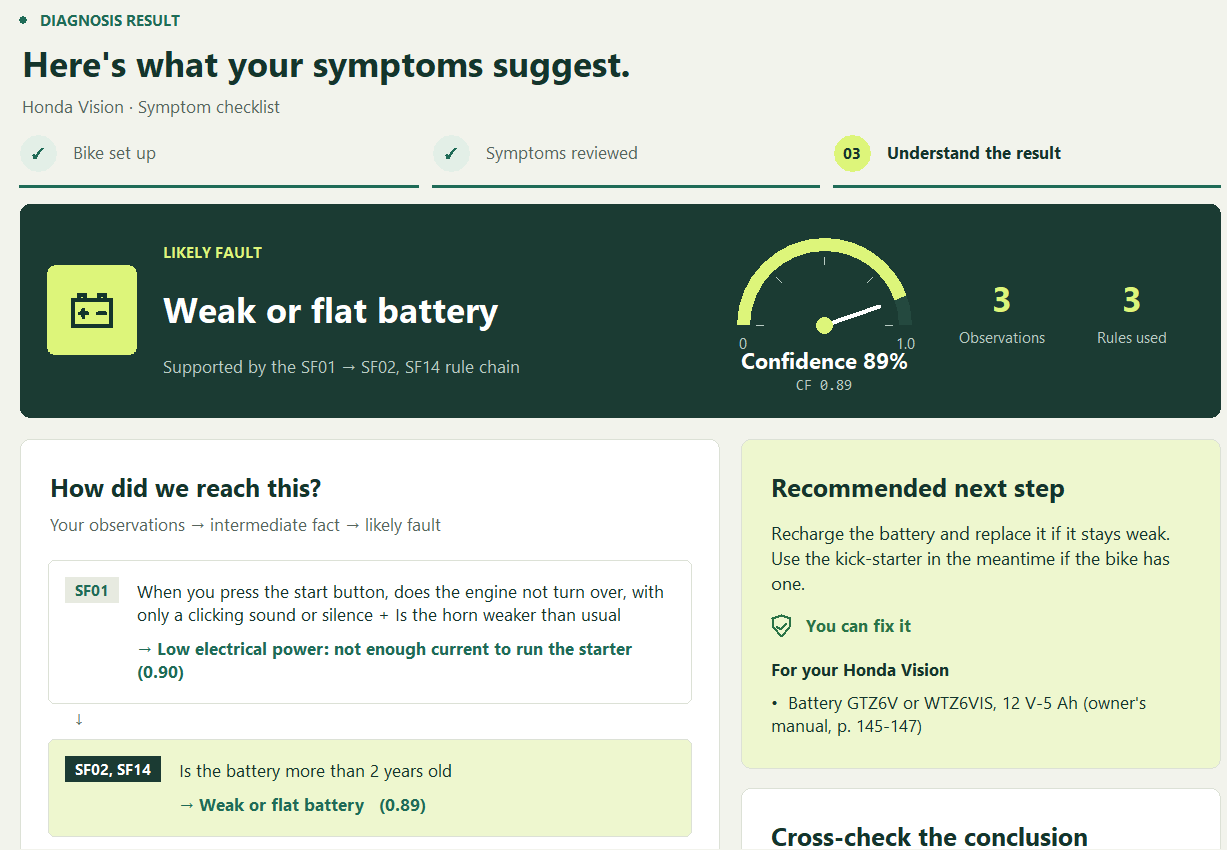
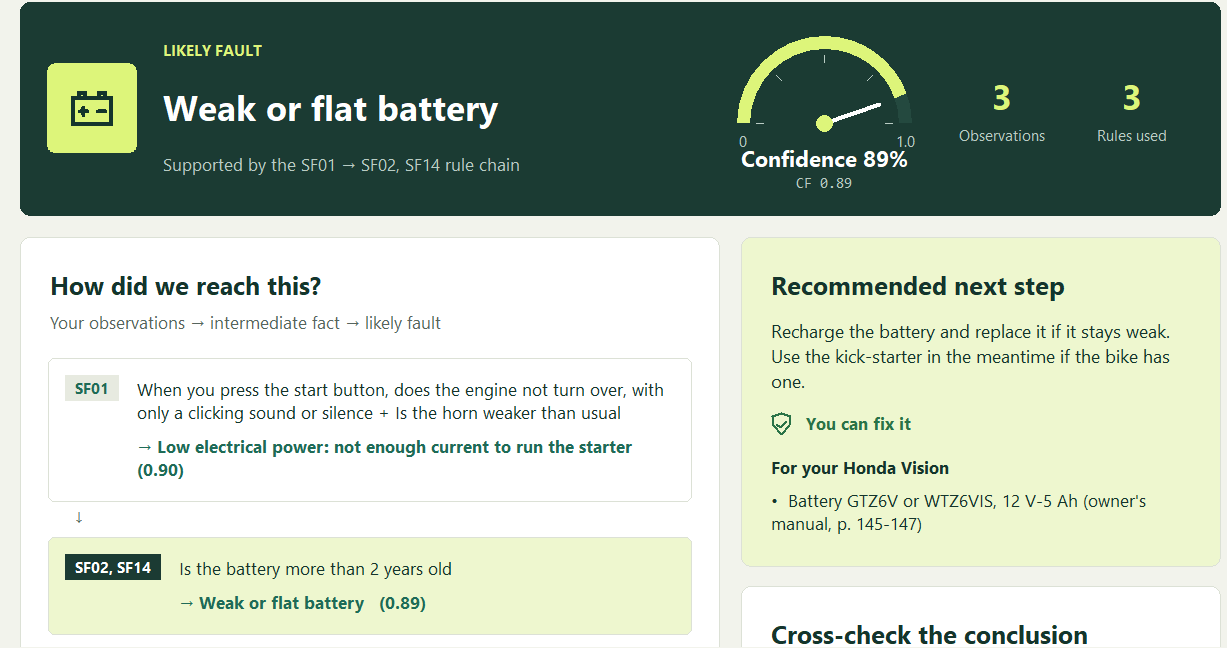
Report: the three MotoLogic screenshots back in 3.1 at full width (no appendix), other figures 5 in; body about 13 pages by the team leader's choice

diff --git a/tests/test_build_report.py b/tests/test_build_report.py
@@ -34,8 +34,8 @@ class BuildReportTest(unittest.TestCase):
         cells = [p for t in doc.tables[1:] for row in t.rows for c in row.cells for p in c.paragraphs]  # [0]: cover
         self.assertTrue(cells and all(p.paragraph_format.keep_with_next for p in cells), "a table may split")
         self.assertIn("References", heads)
-        self.assertEqual(heads[-1], "Appendix A: MotoLogic screens")  # after the references, outside the body
-        self.assertIn("Figure A.2:", text)
+        self.assertEqual(heads[-1], "References")
+        self.assertIn("Figure 3.1.3: The result for a Honda Vision", text)  # the app screens are in the body
         self.assertIn("Wang, H. (1960)", text)
         self.assertIn("Motorbike Fault Diagnosis Expert System", text)  # cover title
         self.assertGreaterEqual(len(doc.inline_shapes), 8)  # 1 + 1 + 3 (Ch3: G1, K1, chat) + 2 + 1

diff --git a/tools/build_report.py b/tools/build_report.py
@@ -300,7 +300,8 @@ def table(doc, rows: list, caption: str) -> None:
 
 def figure(doc, path: str, fid: str, caption: str) -> None:
     p = para(doc, align=WD_ALIGN_PARAGRAPH.CENTER, spacing=1.0)
-    p.add_run().add_picture(str(REPORT / path), width=Inches(4.0))
+    screenshot = Path(path).name.startswith(("fig_app_", "fig_motologic"))  # small UI text: use the full width
+    p.add_run().add_picture(str(REPORT / path), width=Inches(6.0 if screenshot else 5.0))
     p.paragraph_format.keep_with_next = True  # never a caption alone at the top of a page
     para(doc, f"Figure {fid}: {caption}", 12, italic=True, align=WD_ALIGN_PARAGRAPH.CENTER, spacing=1.0, after=6)
 

diff --git a/docs/report/README.md b/docs/report/README.md
@@ -4,7 +4,7 @@ File mẫu của giảng viên: [sample/Final_Project_report_sample.docx](sample
 
 ## Thứ tự trong báo cáo
 
-Bìa (Ministry of Education and Training, Van Lang University, tên môn, Final Project, Title, Lecturer, Course code, Group và MSSV, Ho Chi Minh City + tháng năm), Acknowledgments, Commitment, mục lục tự động, các chương, References, Appendix A (ảnh màn hình MotoLogic, `appendix_lam.md`; nằm ngoài 10 trang thân bài). Viết bằng tiếng Anh.
+Bìa (Ministry of Education and Training, Van Lang University, tên môn, Final Project, Title, Lecturer, Course code, Group và MSSV, Ho Chi Minh City + tháng năm), Acknowledgments, Commitment, mục lục tự động, các chương, References. Viết bằng tiếng Anh.
 
 | Chương | Người viết |
 |---|---|
@@ -50,7 +50,7 @@ Script lấy bìa (khung, logo), khổ giấy, lề, style và footer từ file 
 - Tiêu đề chương dạng `Chapter 1: Introduction`; mục con đánh số `1.1`, `1.2`.
 - Hình có chú thích ngay bên dưới, số theo chương.mục.thứ tự: `Figure 1.1.1: ...`. Trong bài phải nhắc đến từng hình.
 - Times New Roman, chữ thường 13 pt, tiêu đề chương 18 pt đậm, tiêu đề mục 13 pt; khổ Letter, lề 1 inch, có số trang.
-- Giãn dòng **double-spaced**, tổng **10 trang** theo đề bài (file mẫu để 1.3, không theo chỗ này).
+- Giãn dòng **double-spaced**, đề bài ghi 10 trang (không tính bìa); ngày 13/11 nhóm trưởng quyết định để ảnh màn hình đủ to nên thân bài khoảng 13 trang (file mẫu để 1.3, không theo chỗ này).
 
 ## Số trang mỗi phần (double-spaced, khoảng 240 từ một trang, mỗi hình khoảng 1/3 trang)
 
@@ -72,7 +72,7 @@ Lưu ảnh vào `figures/`, tên `fig_<nội_dung>.png`. Biểu đồ và sơ đ
 |---|---|---|---|
 | 1 | Figure 1.1.1: tổng quan hệ thống | Lâm | Có: `fig_system_overview.png` |
 | 2 | Figure 2.2.1: forward và backward trên luật SF01, SF02 | Lâm | Có: `fig_forward_backward.png` |
-| 3 | Ba bước của MotoLogic: chọn xe, hỏi đáp, kết quả | Lâm | Bỏ khỏi báo cáo 13/11 (đề bài: 10 trang); có trong slide 4. Ảnh: `fig_app_setup.png`, `fig_app_guided.png`, `fig_app_result.png` |
+| 3 | Ba bước của MotoLogic: chọn xe, hỏi đáp, kết quả | Lâm | Có: `fig_app_setup.png`, `fig_app_guided.png`, `fig_app_result.png` (rộng hết khổ, 6 inch) |
 | 3 | Màn chat theo luật, đang hỏi "tại sao" | Lâm | Có: `fig_motologic_chat.png` (`python tools/shots.py`) |
 | 3 | Ví dụ forward chaining tính CF | Giang | Có: `fig_cf_example.png` (`python src/report_figures.py`) |
 | 3 | Màn hình MotoLogic: kết quả SE01 có đồng hồ độ tin cậy (confidence gauge) và Wang | Giang | Có, chụp lại 13/11 (có chọn dòng xe): `fig_motologic_4_result.png` (thêm `fig_motologic_1_setup`, `_2_guided`, `_3_symptoms`); không tính vào 1 hình của phần Giang |

diff --git a/docs/report/methodology_lam.md b/docs/report/methodology_lam.md
@@ -1,10 +1,18 @@
 # Methodology: knowledge base and interface
 
-Author: Tang Thoai Lam. Final draft, 12/11/2026. First section of Chapter 3; together with `assistant_lam.md` about 180 words and 1 figure.
+Author: Tang Thoai Lam. Final draft, 13/11/2026. First section of Chapter 3; three screenshots of MotoLogic (English, light), taken with `python tools/shots.py --lang=en --mode=light --size=default` and cropped to the content area.
 
 ## 3.a Knowledge base and interface
 
-The knowledge base is one JSON file per subsystem: yes/no questions in Vietnamese and English, faults with a severity and an action, and rules with a CF and a source. Six popular bike models add their own rules and owner's-manual specs. A validator rejects duplicate rules, unused symbols, missing sources and cycles. The MotoLogic interface has three steps: the bike, one of three ways to describe the problem, and the result with its confidence, rule chain, action, the model's owner's-manual specs and Wang's check (Figure 3.a.1; the other screens are in Appendix A).
+The knowledge base is one JSON file per subsystem: yes/no questions in Vietnamese and English, faults with a severity and an action, and rules with a CF and a source. Six popular bike models add their own rules and owner's-manual specs. A validator rejects duplicate rules, unused symbols, missing sources and cycles.
 
-Figure 3.a.1: The MotoLogic result for a Honda Vision that only clicks when started.
+MotoLogic has three steps. The rider picks the bike model and one of three ways to diagnose (Figure 3.a.1); step-by-step questions show the rule each question tests (Figure 3.a.2); the result gives the leading fault with its confidence, rule chain, action, the model's owner's-manual specs and Wang's check (Figure 3.a.3).
+
+Figure 3.a.1: Step 1 of MotoLogic: the bike model and the way to diagnose.
+File: `figures/fig_app_setup.png`
+
+Figure 3.a.2: Step-by-step questions: the rule being tested is shown beside the question.
+File: `figures/fig_app_guided.png`
+
+Figure 3.a.3: The result for a Honda Vision that only clicks when started.
 File: `figures/fig_app_result.png`
